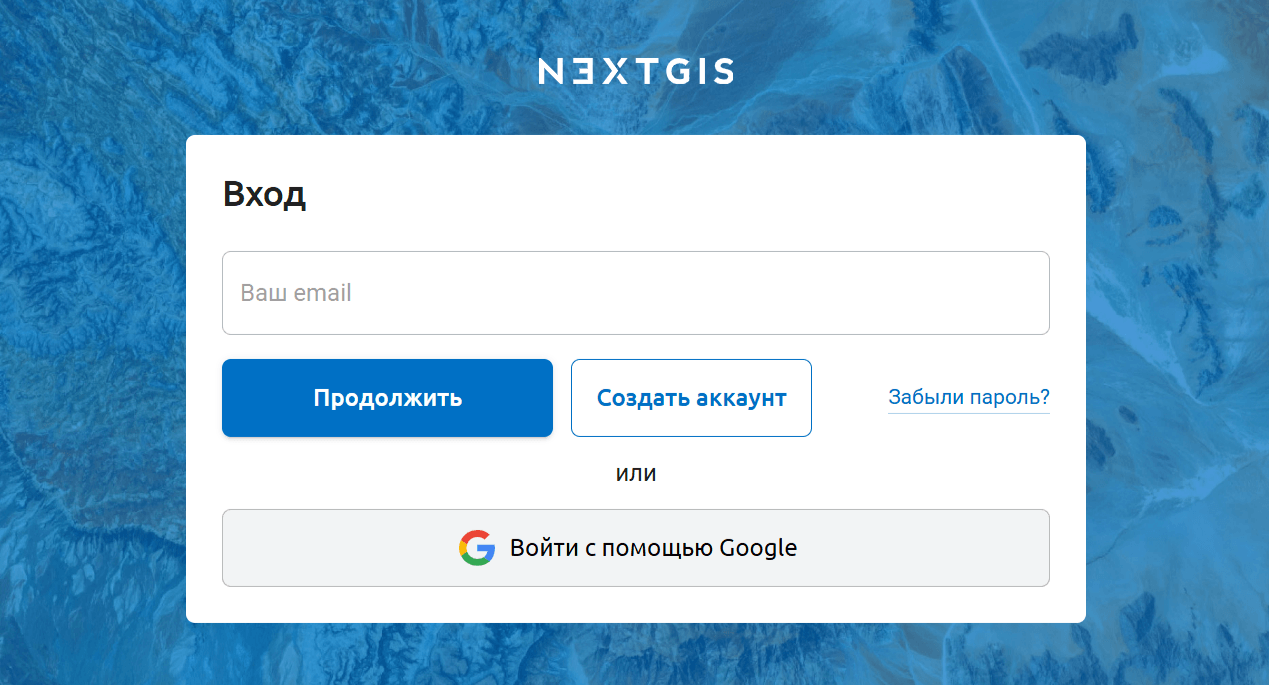
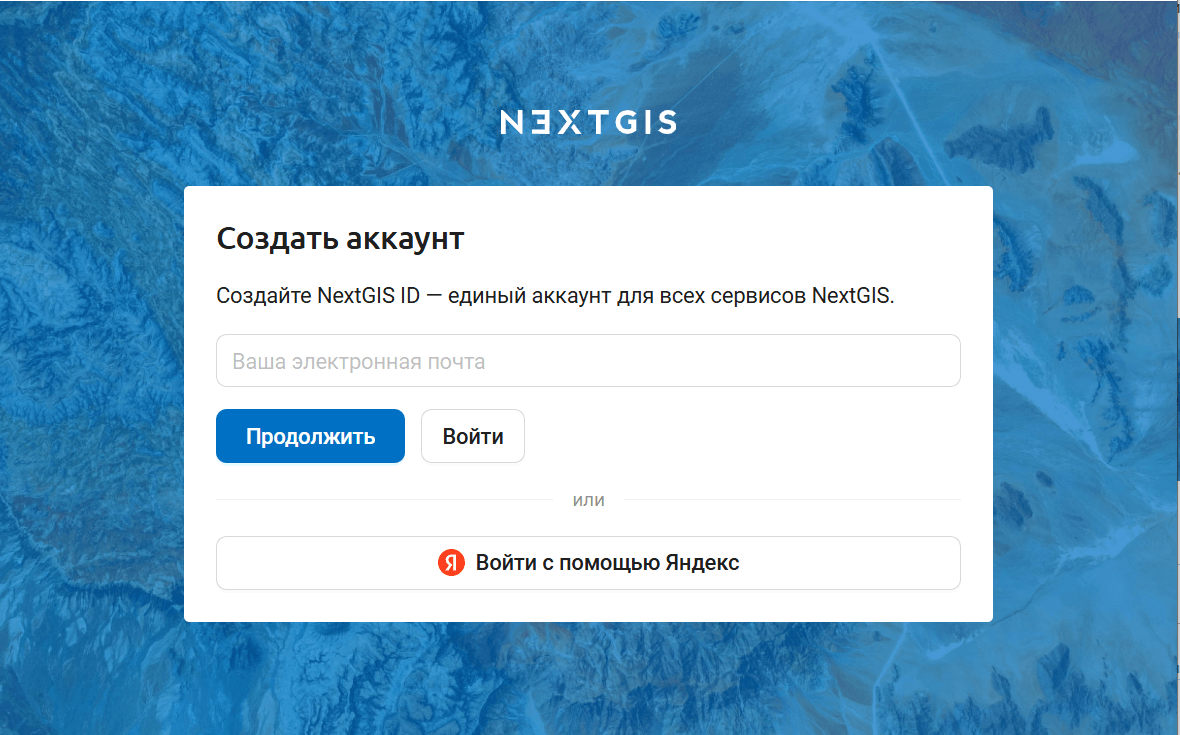
add yandex signup create.rst

diff --git a/source/create.rst b/source/create.rst
@@ -22,7 +22,7 @@
 
 Откроется форма входа и регистрации аккаунта.
 
-.. figure:: _static/ngid_signup_signin_ru.png
+.. figure:: _static/ngid_signup_signin_ru_2.png
    :name: ngid_signin_signup_pic
    :align: center
    :width: 16cm  
@@ -31,7 +31,7 @@
 
 Нажмите **Создать аккаунт**.
 
-.. figure:: _static/ngid_create_email_ru.png
+.. figure:: _static/ngid_create_email_ru_2.png
    :name: ngid_create_email_pic
    :align: center
    :width: 16cm    
